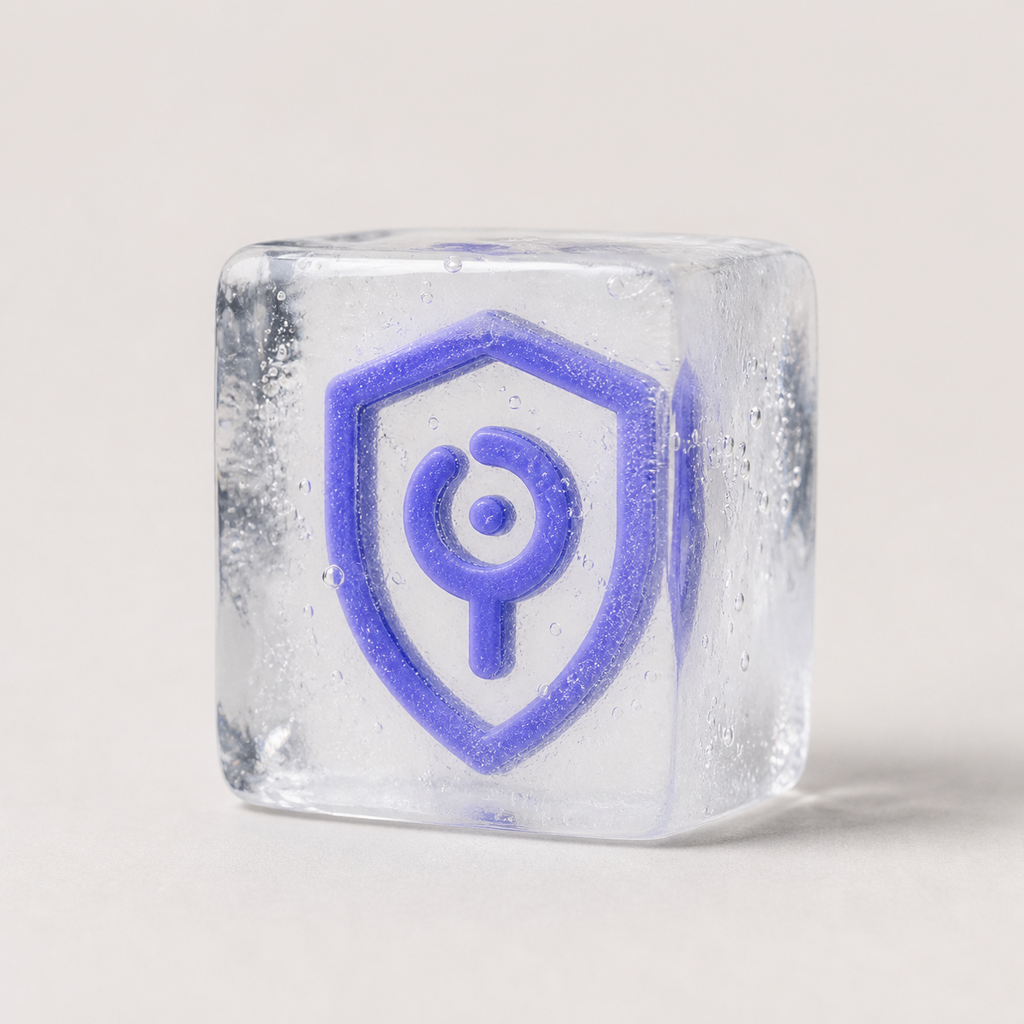
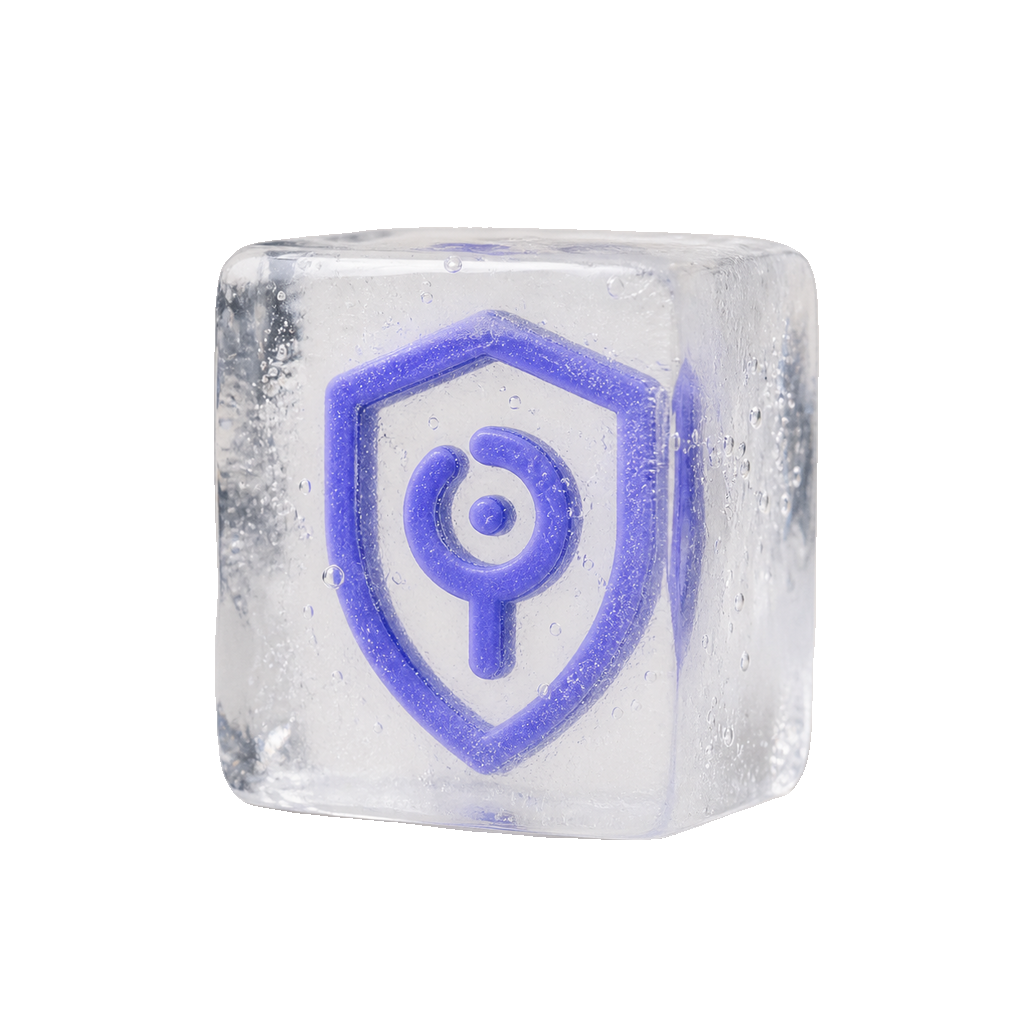
fix(brand): make ice hero background transparent

diff --git a/assets/brand/README.md b/assets/brand/README.md
@@ -7,10 +7,10 @@ The Aegis mark belongs to the shared Heliantheon visual family: geometric constr
 | `mark.svg` | Primary full-color vector mark |
 | `mark-monochrome.svg` | Single-color mark for neutral surfaces |
 | `icon-512.png` | Raster icon for platforms that do not accept SVG |
-| `hero-ice.png` | Ice-block hero for README and promotional use |
+| `hero-ice.png` | Transparent ice-block hero for README and promotional use |
 
 - Accent: `#635BFF`
 - Keep clear space around the mark equal to at least one eighth of its width.
 - Do not stretch, rotate, recolor, add effects, or combine the mark with another product emblem.
 - Prefer the primary mark on white or very light neutral backgrounds; use the monochrome mark when color is unavailable.
-- Use the ice-block hero at 256 px or larger; do not use it as a favicon or small interface icon.
+- Use the ice-block hero at 256 px or larger, keep its canvas transparent, and do not use it as a favicon or small interface icon.
